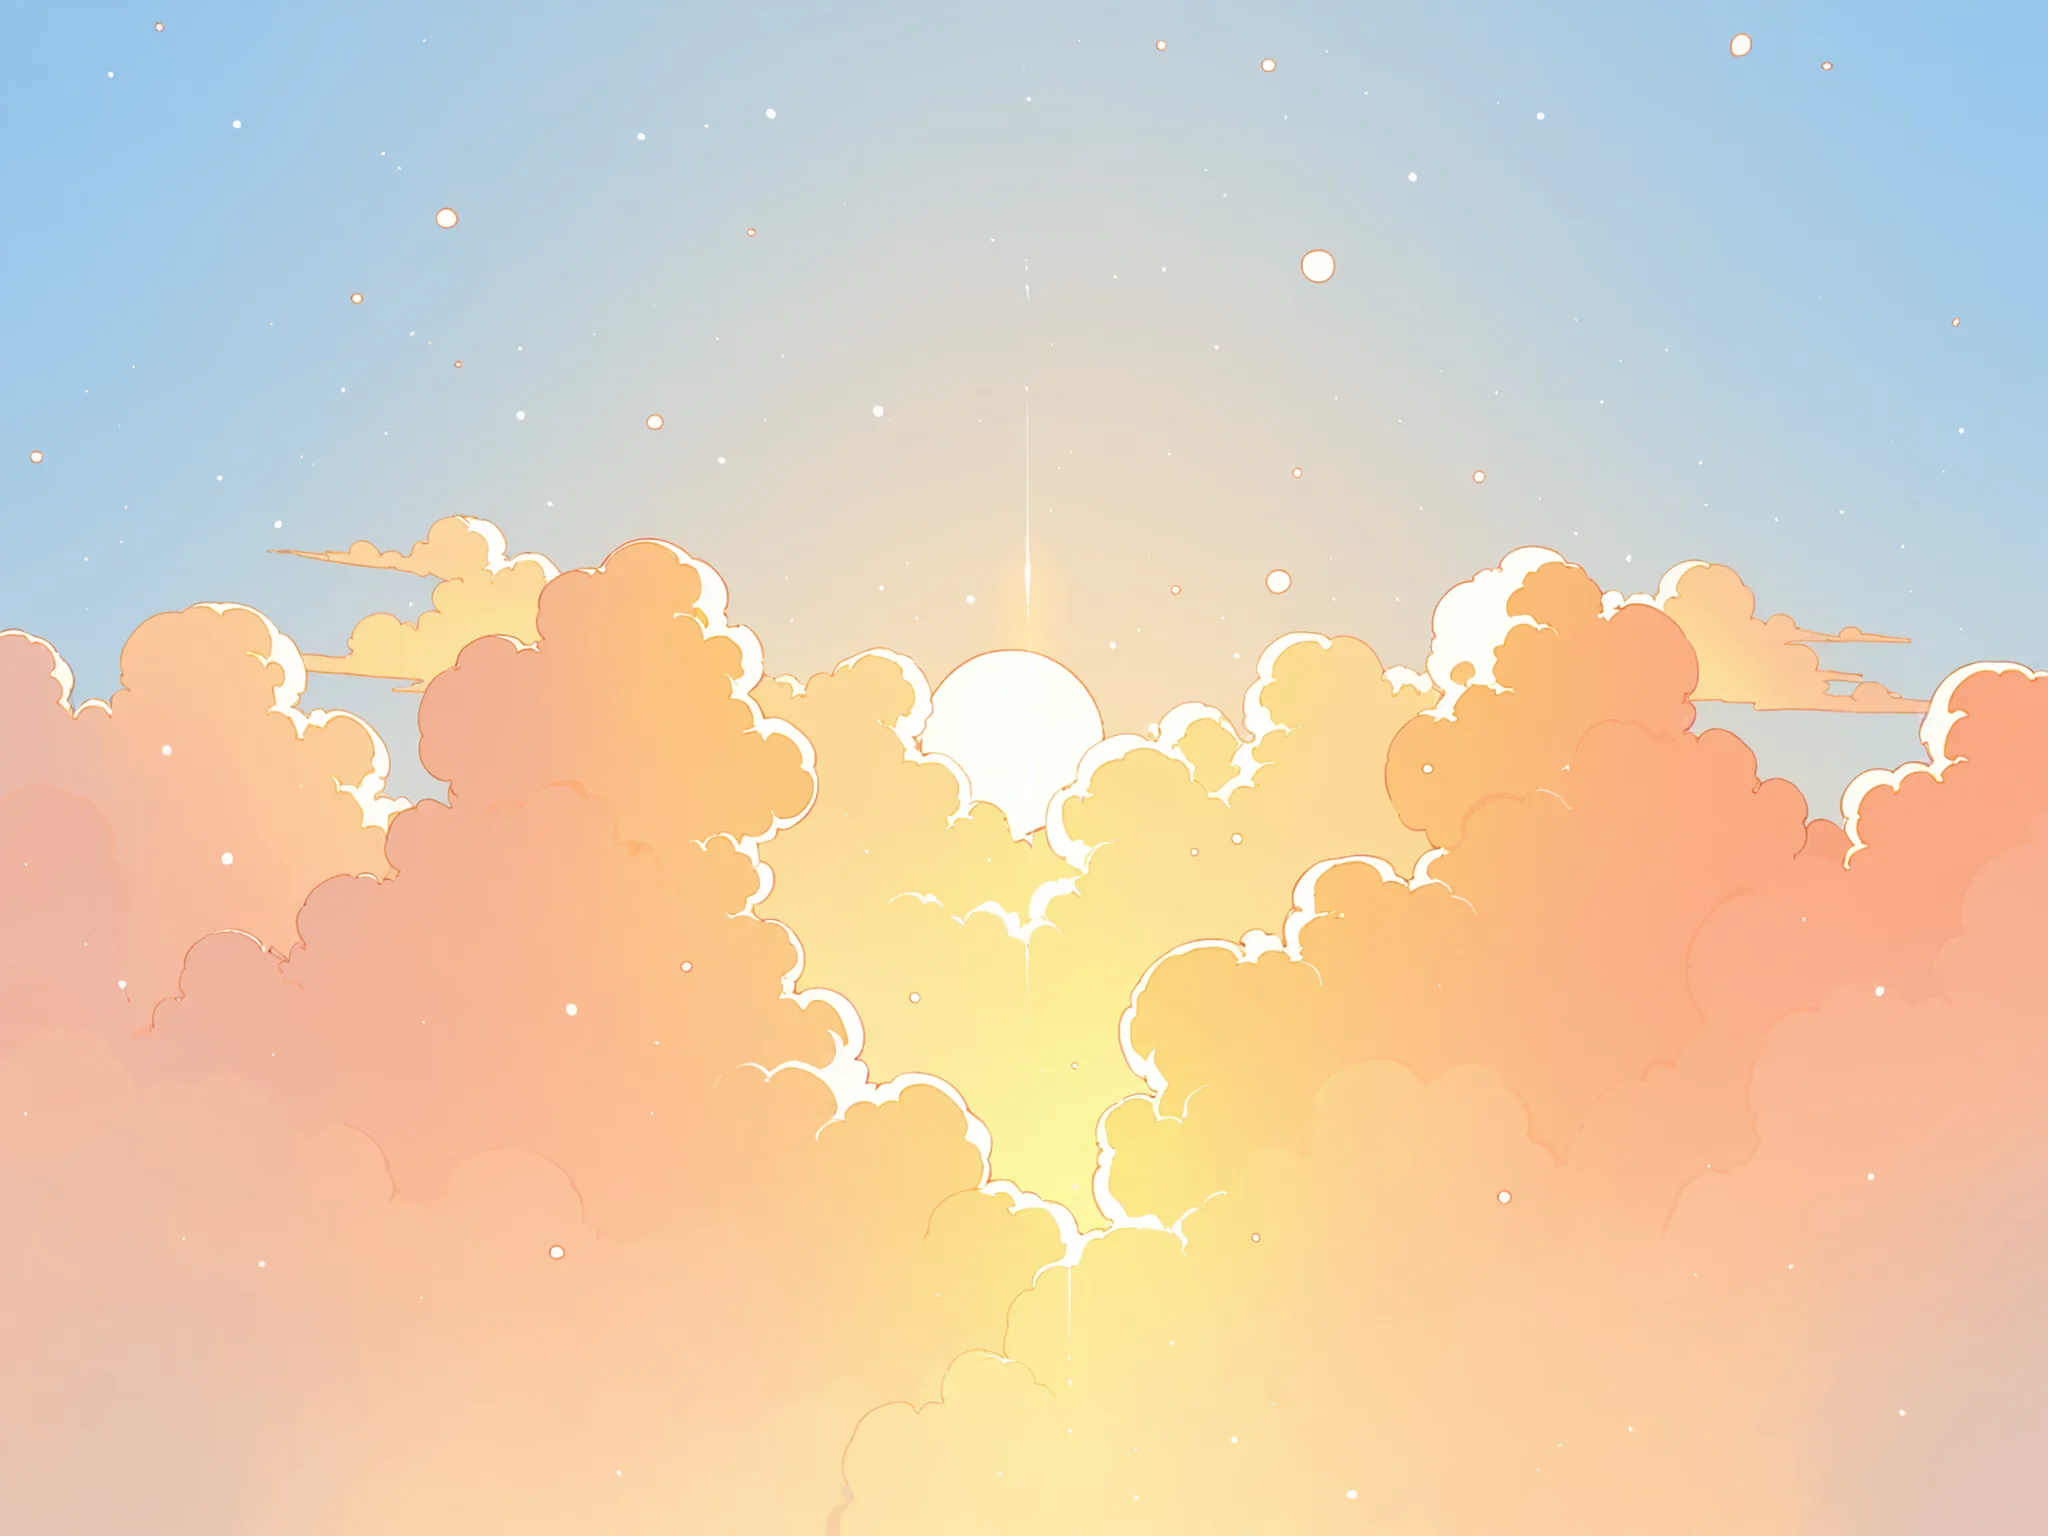
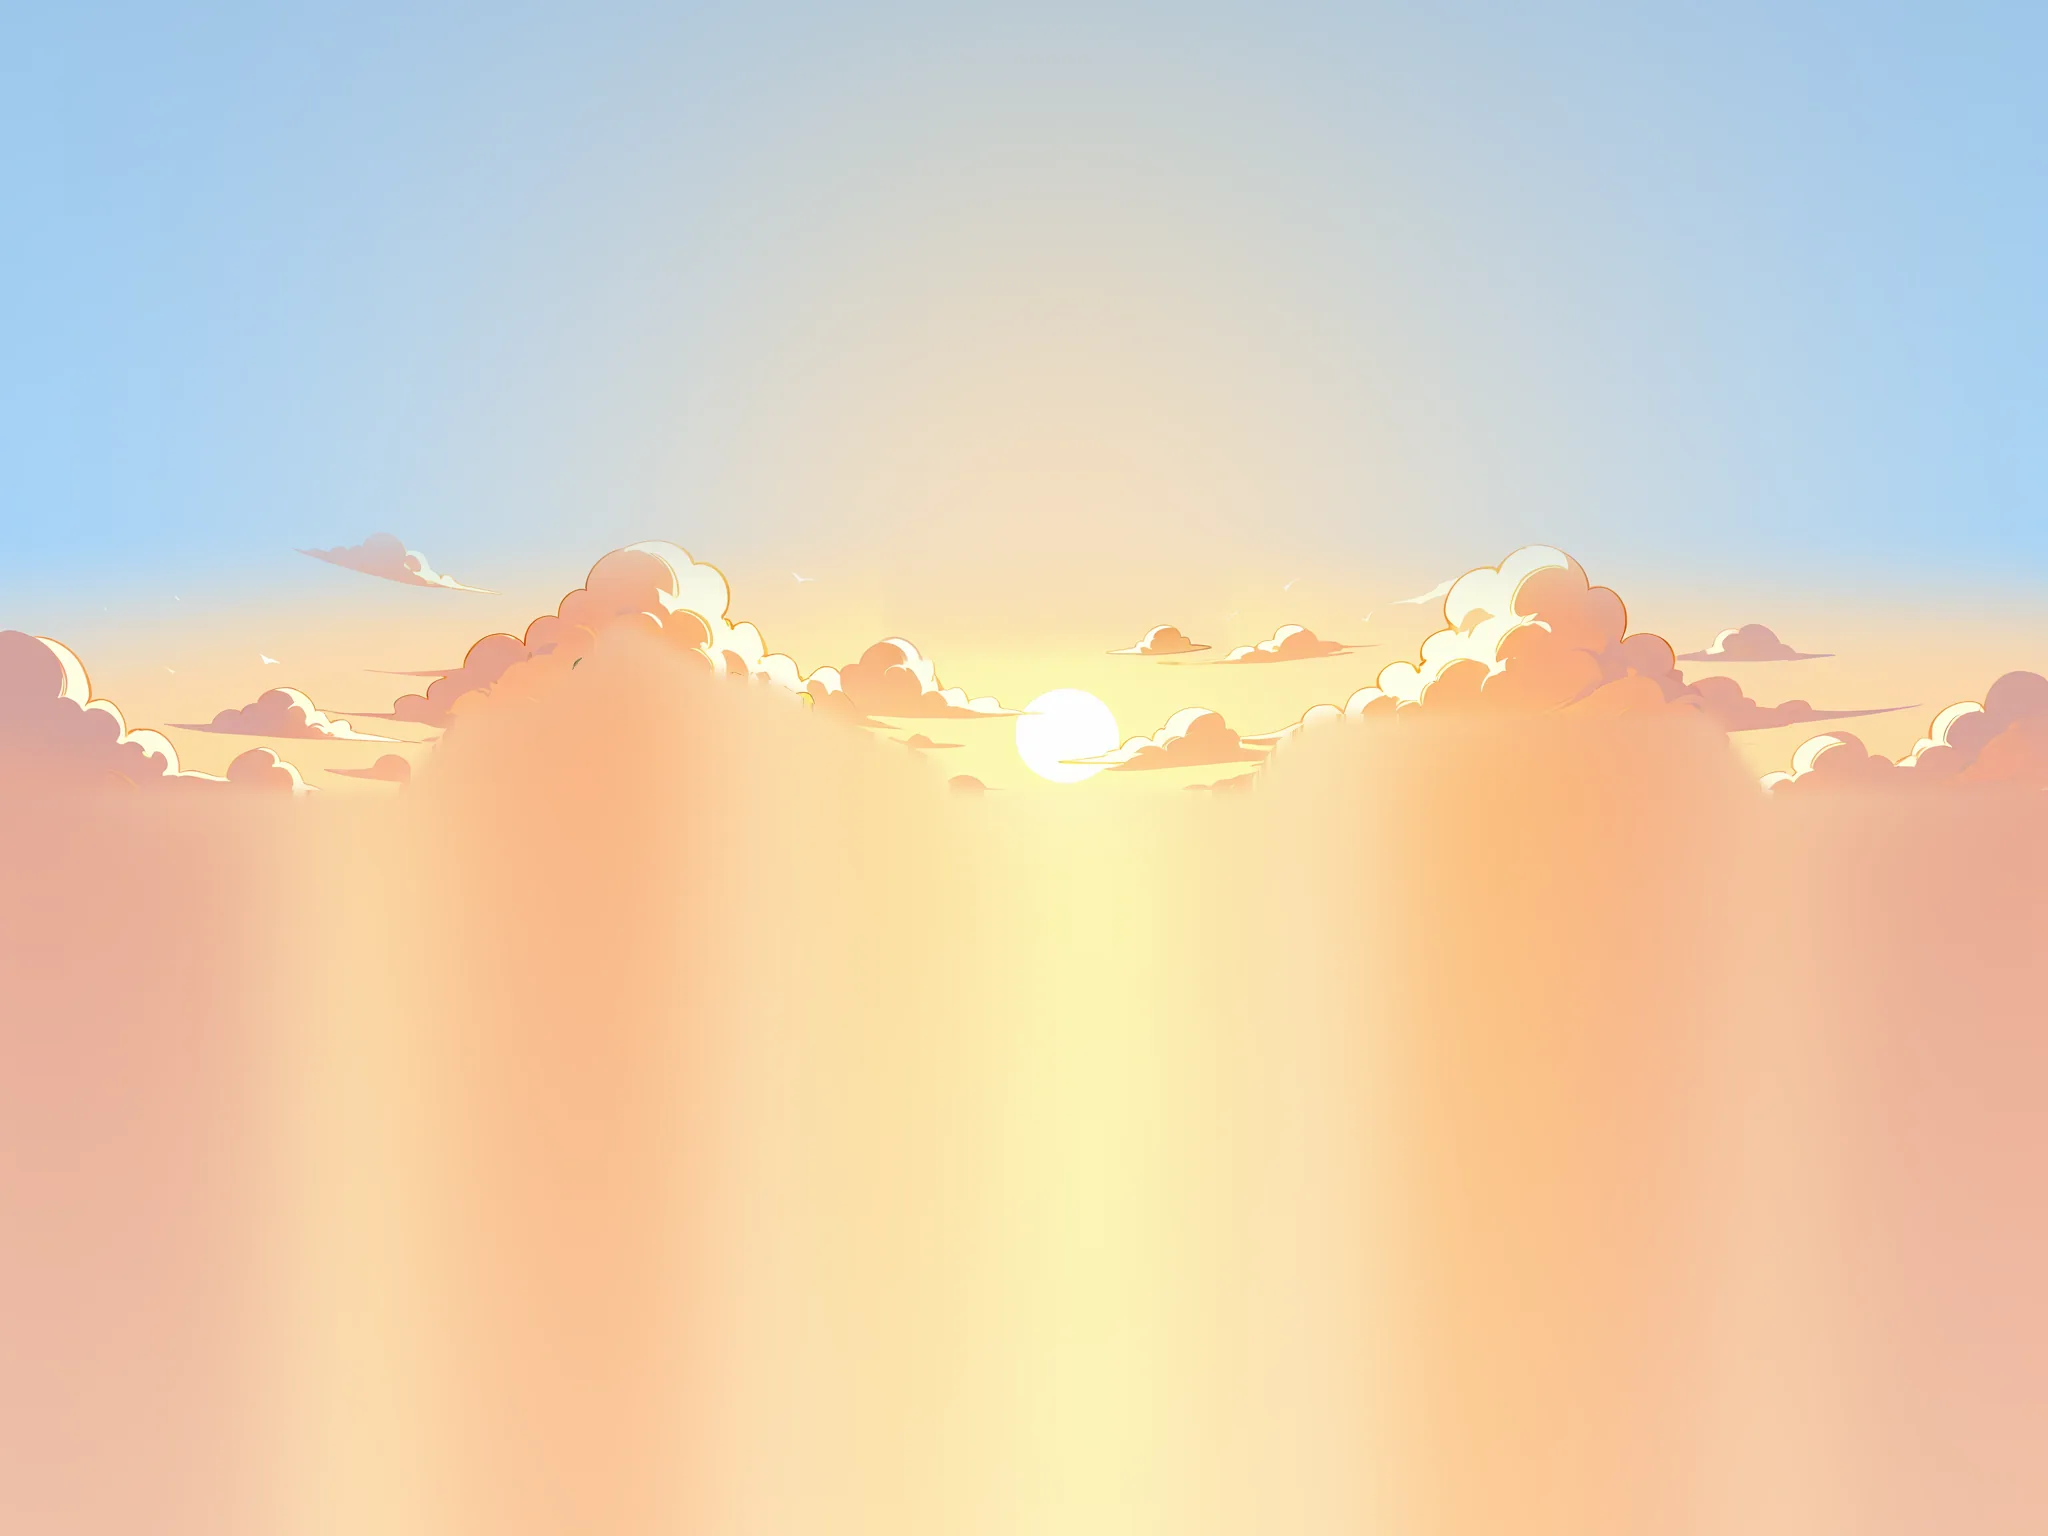
Island hero: static again, sky from the plate's own clouds
Parallax dropped (IslandParallax, the flower-strip layer and fg.webp removed). The sky is now the plate's sky extended upward with the cut
cloud tops faded into haze (sky_static.py, no model pass) instead of the regenerated sky with its heavy cloud mass.

Changed region(s): [[0.0, 0.3125, 1.0, 0.9062], [0.625, 0.1562, 0.6562, 0.1875]]

diff --git a/components/landing/IslandHero.tsx b/components/landing/IslandHero.tsx
@@ -1,11 +1,9 @@
 import Image from "next/image";
-import IslandParallax from "./IslandParallax";
 
-/** Full-bleed island hero. Three layers from art/v2/island/<ver> (layers_sky.py, layers_cut.py, export_web.py):
- *  sky.webp (2048x1536, fills the section, the copy sits in it), main.webp (the island with the sky cut out) and fg.webp (the flower strip,
- *  bottom 15% of the plate, feathered top). On scroll the sky lags the page most, the island less, the flower strip runs ahead of it, the copy
- *  and the Bee Guardian move with the page (IslandParallax; data-drift = fraction of the viewport height over the first viewport of scroll).
- *  Below 1024px the 4:5 mobile crop replaces the island and strip and drifts like the island. */
+/** Full-bleed island hero, static. Two images from art/v2/island/<ver> (sky_static.py, layers_cut.py, export_web.py): sky.webp (2048x1536,
+ *  the plate's own sky with 512 px of gradient above it) fills the section and the copy sits in it; main.webp (the island with the sky cut out)
+ *  is anchored under the copy, cropped at the bottom so the mesas reach the fold. Below 1024px the 4:5 mobile crop replaces it. The Bee
+ *  Guardian peeks in bottom-right. */
 /** The island version folder under public/landing/island. A new folder per plate busts the browser cache; next dev also caches optimized
  *  copies in .next/dev/cache/images (see CLAUDE.md). */
 const DIR = "/landing/island/v4";
@@ -13,19 +11,11 @@ const DIR = "/landing/island/v4";
 export default function IslandHero({ children }: { children: React.ReactNode }) {
   return (
     <section className="island-hero relative overflow-hidden">
-      <IslandParallax />
-      <div className="absolute inset-x-0 -top-[32vh] bottom-0 will-change-transform" data-drift="0.32">
-        <Image src={`${DIR}/sky.webp`} alt="" fill priority sizes="100vw" className="object-cover object-bottom" />
-      </div>
+      <Image src={`${DIR}/sky.webp`} alt="" fill priority sizes="100vw" className="object-cover object-bottom" />
       <div className="relative z-10 px-4 pt-10 pb-8 sm:px-6 sm:pt-14 lg:pt-16 lg:pb-10">{children}</div>
       <div className="relative z-[5] -mt-[2vw] h-[clamp(360px,120vw,560px)] lg:-mt-[11vw] lg:h-[47vw]" role="img" aria-label="The EcoProof island: a beekeeper's hut in a flower meadow, a waterfall between two mesas, trees and distant hills at golden hour">
-        <div className="absolute inset-x-0 top-0 will-change-transform" data-drift="0.16">
-          <Image src={`${DIR}/main.webp`} alt="" width={2048} height={1024} priority sizes="100vw" className="hidden h-auto w-full lg:block" />
-          <Image src={`${DIR}/mobile.webp`} alt="" width={1080} height={1350} priority sizes="100vw" className="h-auto w-full lg:hidden" />
-        </div>
-        <div className="absolute inset-x-0 top-0 hidden will-change-transform lg:block" data-drift="-0.06">
-          <Image src={`${DIR}/fg.webp`} alt="" width={2048} height={1024} sizes="100vw" className="h-auto w-full" />
-        </div>
+        <Image src={`${DIR}/main.webp`} alt="" width={2048} height={1024} priority sizes="100vw" className="absolute inset-x-0 top-0 hidden h-auto w-full lg:block" />
+        <Image src={`${DIR}/mobile.webp`} alt="" width={1080} height={1350} priority sizes="100vw" className="absolute inset-x-0 top-0 h-auto w-full lg:hidden" />
         <Image src="/landing/bee.webp" alt="" width={944} height={880} sizes="(min-width: 1024px) 300px, 180px" className="bee-bob absolute -bottom-2 right-2 z-[6] h-[150px] w-auto lg:-right-10 lg:h-[300px]" style={{ filter: "drop-shadow(0 10px 18px rgba(58,42,28,0.3))" }} />
       </div>
     </section>

diff --git a/art/v2/island/sky_static.py b/art/v2/island/sky_static.py
@@ -1,0 +1,36 @@
+#!/usr/bin/env python3
+"""island_sky.png (2048x1536) from the plate's own sky, no model pass: 512 px of gradient above it (the plate's blurred top colour drifting to a
+deeper blue), the plate's top rows faded into that haze so clouds the frame cut off dissolve instead of ending in a line, and each column's sky
+colour continued down over the land (only a thin edge of it ever shows behind the island cutout). Run with the WebUI venv python (numpy).
+Usage: sky_static.py <folder>"""
+import sys, pathlib
+import numpy as np
+from PIL import Image, ImageDraw, ImageFilter
+D = pathlib.Path(__file__).parent/sys.argv[1]
+EXT, FADE = 512, 120
+src = Image.open(D/"hero_island.png").convert("RGB"); W,H = src.size
+a = np.asarray(src, np.float32)
+land = Image.new("L", (W,H), 0); d = ImageDraw.Draw(land)
+d.rectangle([0,290,W,H], fill=255)
+d.polygon([(400,300),(470,215),(560,200),(620,125),(700,170),(760,180),(830,220),(930,260),(940,300)], fill=255)
+d.polygon([(1250,300),(1290,240),(1330,214),(1700,214),(1760,300)], fill=255)
+lm = np.asarray(land.filter(ImageFilter.MaxFilter(25))) > 128
+# haze colour per column: the plate's top rows, blurred wide so clouds smear into the sky colour
+haze = np.asarray(src.crop((0,0,W,12)).filter(ImageFilter.BoxBlur(220)), np.float32).mean(axis=0)
+deep = np.array([150,190,226], np.float32); cream = np.array([255,236,205], np.float32)
+out = np.zeros((H+EXT,W,3), np.float32); out[EXT:] = a
+for y in range(EXT):
+    t = (1 - y/EXT)**1.2; out[y] = haze*(1-0.6*t) + deep*(0.6*t)
+for y in range(FADE):
+    k = (1 - y/FADE)**1.6; out[EXT+y] = a[y]*(1-k) + haze*k
+for x in range(W):
+    ys = np.where(lm[:,x])[0]
+    if not len(ys): continue
+    t0 = int(ys[0]); c = a[max(0,t0-6), x]; tt = (np.arange(t0,H)-t0)/max(1,H-t0)
+    out[EXT+t0:, x] = c + (cream-c)*0.35*tt[:,None]
+sky = Image.fromarray(out.clip(0,255).astype(np.uint8))
+# the continued columns are stripes: blur them into a soft gradient under the island, keeping the real sky outside the land mask
+landtall = Image.new("L", (W,H+EXT), 0); landtall.paste(Image.fromarray((lm*255).astype(np.uint8)), (0,EXT))
+sky = Image.composite(sky.filter(ImageFilter.GaussianBlur(50)).filter(ImageFilter.BoxBlur(60)), sky, landtall.filter(ImageFilter.GaussianBlur(6)))
+sky.save(D/"island_sky.png"); sky.resize((1024,768)).save(D/"_sky_static.png")
+print("sky", sky.size)

diff --git a/CLAUDE.md b/CLAUDE.md
@@ -70,9 +70,9 @@ on Solana. For sustainable shops, cafés, markets and online brands.
   leaf green and pulses when the device already has stamps, `components/landing/PassportNavLink.tsx`). App routes sit in the `app/(app)` route group,
   whose layout is the chrome (`components/AppShell.tsx`); the landing has its own nav. Art is one language, the cel-shaded NFT card set. The hero is the
   island world (`components/landing/IslandHero.tsx`, `NEXT_PUBLIC_LANDING_HERO=island`, default): seed 41002 plate from `art/v2/island/`
-  (same Illustrious checkpoint as the cards), split into sky / island / flower-strip layers (`layers_sky.py`, `layers_cut.py`, `export_web.py
-  <folder> <ver>` → `public/landing/island/<ver>/`, a new folder per plate so caches bust; current `v4`) with a scroll-driven CSS parallax; the
-  copy sits in the sky and the Bee Guardian cutout (`public/landing/bee.webp`, from `art/v2/ranks/sentinel/sentinel_card.png`) peeks in. The
+  (same Illustrious checkpoint as the cards), as two static images: the plate's own sky extended upward (`sky_static.py`) behind the copy, and
+  the island cutout (`layers_cut.py`) under it; `export_web.py <folder> <ver>` → `public/landing/island/<ver>/`, a new folder per plate so
+  caches bust; current `v4`. A scroll parallax was tried and dropped (not seen as moving, blurred the strip). The Bee Guardian cutout (`public/landing/bee.webp`, from `art/v2/ranks/sentinel/sentinel_card.png`) peeks in. The
   card-fan hero (`components/landing/HeroArt.tsx`, `public/landing/cards/*.webp`, 2x of 300x420, from `art/v2/compositor/samples/`, SVG stamp
   rings) stays behind `NEXT_PUBLIC_LANDING_HERO=cards`. Paper grain and stamps are CSS. Buildings inpainted onto the island (`inpaint.py`,
   `v3_*.py`) never matched; the island stays as generated. The earlier SD flat-lay hero (`art/hero-r1/`, `art/v2/hero/`) was dropped for mixing two styles; the four owner-door spots
